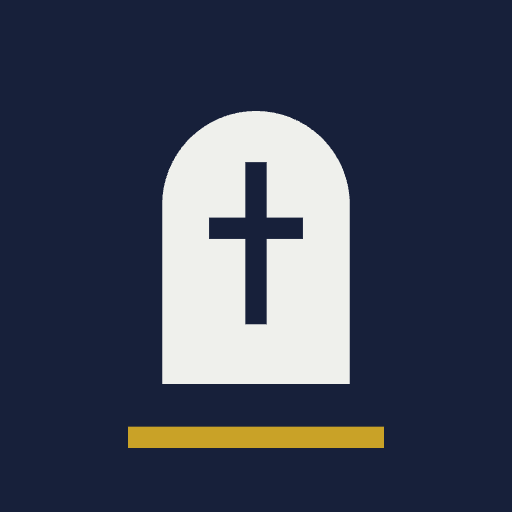
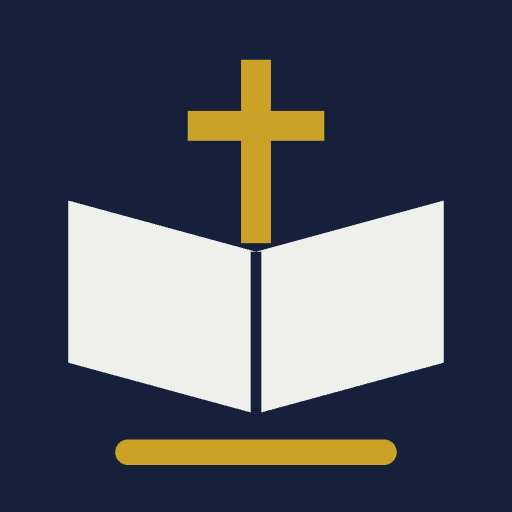
Add files via upload

Changed region(s): [[0.125, 0.0938, 0.875, 0.9062]]

diff --git a/index.html b/index.html
@@ -32,9 +32,7 @@
   .wrap{max-width:1200px;margin:0 auto;background:#fff;min-height:100vh;min-height:100dvh;display:flex;flex-direction:column}
   /* masthead */
   .mast{background:var(--ink);border-bottom:2px solid var(--gold);padding:12px 16px;padding-top:calc(12px + env(safe-area-inset-top));padding-left:calc(16px + env(safe-area-inset-left));padding-right:calc(16px + env(safe-area-inset-right));display:flex;align-items:center;gap:11px}
-  .logo{width:26px;height:32px;background:var(--paper);border-radius:13px 13px 2px 2px;position:relative;display:flex;align-items:center;justify-content:center;flex:none}
-  .logo i{width:3px;height:15px;background:var(--ink);display:block}
-  .logo b{width:11px;height:3px;background:var(--ink);position:absolute;top:11px}
+  .logo{width:32px;height:32px;flex:none;display:block}
   .brand{font-family:'Alice',serif;color:#fff;font-size:20px;line-height:1.1;letter-spacing:.01em}
   .lang{margin-left:auto;display:flex;border:1px solid #3a4463;border-radius:999px;overflow:hidden}
   .lang button{padding:5px 11px;font-size:12px;font-weight:600;border:0;background:transparent;color:#9aa3bd;letter-spacing:.04em;transition:background .16s ease,color .16s ease}
@@ -93,14 +91,14 @@
   .caret svg{transition:transform .16s ease}
   .caret.up svg{transform:rotate(180deg)}
   .li.on .caret{color:var(--blue)}
-  .drawer{background:#fbfbf9;border-bottom:1px solid var(--rule);padding:4px 16px 12px}
-  .drawer .dh{display:flex;align-items:baseline;gap:8px;padding:10px 0 6px;font-size:12px;
+  .subrow{background:#fbfbf9;border-bottom:1px solid var(--rule);padding:4px 16px 12px}
+  .subrow .dh{display:flex;align-items:baseline;gap:8px;padding:10px 0 6px;font-size:12px;
     letter-spacing:.08em;text-transform:uppercase;color:var(--muted)}
-  .drawer .dh span{text-transform:none;letter-spacing:0;color:var(--faint)}
-  .drawer .dr{display:flex;align-items:baseline;gap:12px;padding:5px 0;border-top:1px solid #e9eae4}
-  .drawer .dd{width:44%;flex:none;font-size:14px;font-variant-numeric:tabular-nums}
-  .drawer .dk{flex:1;min-width:0;font-size:13px;color:var(--muted)}
-  .drawer .dk.cx{color:var(--red)}
+  .subrow .dh span{text-transform:none;letter-spacing:0;color:var(--faint)}
+  .subrow .dr{display:flex;align-items:baseline;gap:12px;padding:5px 0;border-top:1px solid #e9eae4}
+  .subrow .dd{width:44%;flex:none;font-size:14px;font-variant-numeric:tabular-nums}
+  .subrow .dk{flex:1;min-width:0;font-size:13px;color:var(--muted)}
+  .subrow .dk.cx{color:var(--red)}
   .ver{padding:4px 16px 24px;text-align:center;font-size:12px;color:var(--faint);
     font-variant-numeric:tabular-nums;letter-spacing:.04em}
   .ver a{color:var(--faint);text-decoration:underline;text-underline-offset:2px}
@@ -140,8 +138,8 @@
   .who i{font-style:normal;font-weight:700;font-size:9px;line-height:1;padding:2px 4px;border-radius:3px;
     background:var(--paper);border:1px solid var(--rule);color:var(--faint)}
   .s .st{vertical-align:middle}
-  .drawer .dc{flex:none;text-align:right}
-  .drawer .dc .who{margin-left:6px}
+  .subrow .dc{flex:none;text-align:right}
+  .subrow .dc .who{margin-left:6px}
   .dpick{position:relative;flex:1;min-width:0;display:block}
   .dpick span{display:block;border:1px solid var(--rule);border-radius:8px;background:#fbfbf9;
     padding:10px 11px;font-size:15px;line-height:1.2;color:var(--ink);text-align:center;
@@ -427,13 +425,26 @@
   .svc-card .date{font-family:'Alice',serif;font-size:17px}
   .svc-card .kind{font-size:12px;color:var(--blue);border:1px solid #c6cde6;background:#f2f4fb;border-radius:999px;padding:3px 9px}
   .svc-card .s{font-size:15px;color:#3c4438;padding-left:14px;border-left:2px solid var(--rule)}
-  .login{padding:32px 24px 28px;display:flex;flex-direction:column;gap:16px;max-width:400px;margin:40px auto;
-    width:calc(100% - 32px);background:#fff;border:1px solid var(--rule);border-radius:18px;
-    box-shadow:0 18px 44px -20px rgba(23,32,58,.30)}
-  .login .lt{font-family:'Alice',serif;font-size:25px;text-align:center}
-  .login .lt::after{content:'';display:block;width:34px;height:2px;background:var(--gold);margin:12px auto 0}
-  .login label{font-family:'Alice',serif;font-size:14px;color:#3c4438;letter-spacing:.06em}
-  .login input{width:100%;background:#fff;border:1px solid var(--rule);border-radius:8px;padding:14px 13px;font-size:16px}
+  .loginwrap{display:flex;justify-content:center;padding:6vh 16px 40px}
+  .login{position:relative;padding:30px 26px 28px;display:flex;flex-direction:column;gap:18px;
+    width:min(410px,100%);border-radius:22px;
+    background:rgba(255,255,255,.82);backdrop-filter:blur(22px) saturate(1.5);-webkit-backdrop-filter:blur(22px) saturate(1.5);
+    border:1px solid rgba(255,255,255,.9);box-shadow:0 30px 70px -34px rgba(23,32,58,.5),0 2px 0 rgba(255,255,255,.7) inset;
+    animation:loginin .4s cubic-bezier(.2,.8,.3,1)}
+  @keyframes loginin{from{opacity:0;transform:translateY(14px) scale(.985)}}
+  .login .lhead{display:flex;flex-direction:column;align-items:center;gap:12px;text-align:center}
+  .login .lmark{display:flex;align-items:center;justify-content:center}
+  .login .lmark .logo{filter:none;width:56px;height:56px}
+  .login .lt{font-family:'Alice',serif;font-size:24px;line-height:1.15}
+  .login label{display:block;margin-bottom:7px;font-size:12.5px;font-weight:600;letter-spacing:.07em;
+    text-transform:uppercase;color:var(--muted)}
+  .login input{width:100%;background:rgba(247,248,251,.9);border:1px solid var(--rule);border-radius:12px;
+    padding:14px 14px;font-size:16px;transition:border-color .15s ease,box-shadow .15s ease,background .15s ease}
+  .login input:focus{outline:0;background:#fff;border-color:var(--blue);box-shadow:0 0 0 4px rgba(44,62,143,.13)}
+  .login .btn{background:linear-gradient(165deg,#3b4f9e,#2c3e8f);border-radius:13px;font-size:16px;
+    box-shadow:0 12px 26px -12px rgba(44,62,143,.75)}
+  .login .btn:hover{background:linear-gradient(165deg,#44599f,#334694)}
+  .login .err{border-radius:12px}
   .toast.ok{background:rgba(63,125,78,.92)}
   .toast{position:fixed;left:12px;right:12px;bottom:calc(12px + env(safe-area-inset-bottom));z-index:20;
     max-width:520px;margin-inline:auto;border-radius:16px;background:rgba(158,59,46,.92);backdrop-filter:blur(14px);-webkit-backdrop-filter:blur(14px);color:#fff;display:flex;
@@ -484,13 +495,29 @@
   .drawer .it{display:flex;align-items:center;gap:13px;padding:12px;margin:1px 0;border-radius:11px;
     color:#9aa3bd;font-size:15px;font-weight:500;transition:background .15s ease,color .15s ease}
   .drawer .it svg{width:20px;height:20px;flex:none}
+  .drawer .it .ic-note{width:24px;height:24px;margin:-2px}
+  .drawer .it .ic-note *{stroke-width:2.2}
+  .drawer .it .ic-note [stroke]{stroke:currentColor}
+  .drawer .it .ic-note [fill="#fff"]{fill:none}
+  .drawer .it .ic-note [stroke="var(--blue)"],.drawer .it .ic-note [stroke="var(--red)"],
+  .drawer .it .ic-note [stroke="var(--gold)"]{stroke:var(--gold)}
+  .drawer .it .ic-note [fill="var(--blue)"],.drawer .it .ic-note [fill="var(--red)"],
+  .drawer .it .ic-note [fill="var(--gold)"]{fill:var(--gold)}
+  .drawer .it .ic-note [fill="var(--ink)"]{fill:var(--gold)}
+  .drawer .it .ic-note [data-badge]{fill:none !important}
+  .drawer .it .ic-note [data-play]{transform:translate(24.4px,23.6px) scale(1.75) translate(-24.4px,-23.6px)}
+  .drawer .it.on .ic-note [stroke="var(--blue)"],.drawer .it.on .ic-note [stroke="var(--red)"],
+  .drawer .it.on .ic-note [stroke="var(--gold)"]{stroke:var(--ink)}
+  .drawer .it.on .ic-note [fill="var(--blue)"],.drawer .it.on .ic-note [fill="var(--red)"],
+  .drawer .it.on .ic-note [fill="var(--ink)"],.drawer .it.on .ic-note [fill="var(--gold)"]{fill:var(--ink)}
   .drawer .it:hover{background:rgba(255,255,255,.08);color:#fff}
   .drawer .it.on{background:var(--gold);color:var(--ink);font-weight:600;box-shadow:0 4px 18px -4px rgba(201,162,39,.5)}
   .drawer.on .it{animation:itin .28s backwards}
   @keyframes itin{from{opacity:0;transform:translateX(14px)}}
   .drawer.on .it:nth-child(3){animation-delay:.03s}.drawer.on .it:nth-child(4){animation-delay:.06s}
   .drawer.on .it:nth-child(5){animation-delay:.09s}.drawer.on .it:nth-child(6){animation-delay:.12s}
-  .drawer.on .it:nth-child(7){animation-delay:.15s}
+  .drawer.on .it:nth-child(7){animation-delay:.15s}.drawer.on .it:nth-child(8){animation-delay:.18s}
+  .drawer .it{font-size:14.5px;padding:11px 12px}
   .drawer .grow{flex:1;min-height:14px}
   .drawer .dfoot{border-top:1px solid rgba(255,255,255,.12);padding-top:8px}
   .dlang{display:none}
@@ -512,28 +539,28 @@
   /* faint aurora in the brand's own tints */
   .wrap{background-color:#fff;background-image:
     radial-gradient(640px 380px at 8% -120px,rgba(44,62,143,.08),transparent 62%),
-    radial-gradient(560px 360px at 96% 60px,rgba(201,162,39,.08),transparent 60%),
+    radial-gradient(560px 360px at 96% 60px,rgba(70,100,205,.08),transparent 60%),
     radial-gradient(620px 420px at 50% 760px,rgba(44,62,143,.05),transparent 62%)}
   .hero,.tiles{background:transparent}
   /* quiet glow */
   .logo{filter:drop-shadow(0 0 6px rgba(201,162,39,.35))}
-  .tile.order:hover{box-shadow:0 16px 40px -14px rgba(201,162,39,.42)}
+  .tile.order:hover{box-shadow:0 16px 40px -14px rgba(44,62,143,.45)}
   .savebar .sb.go{box-shadow:0 6px 18px -8px rgba(44,62,143,.55)}
   .mini.go{box-shadow:0 5px 14px -7px rgba(44,62,143,.5)}
   /* aurora on the navy surfaces */
   .mast{background-image:
-    radial-gradient(320px 150px at 94% -35%,rgba(201,162,39,.17),transparent 60%),
+    radial-gradient(320px 150px at 94% -35%,rgba(96,132,235,.24),transparent 60%),
     radial-gradient(340px 170px at 2% 135%,rgba(90,115,220,.24),transparent 62%)}
   .tile.dark,.tile.order{background-image:
-    radial-gradient(320px 200px at 92% -12%,rgba(201,162,39,.15),transparent 60%),
+    radial-gradient(320px 200px at 92% -12%,rgba(96,132,235,.22),transparent 60%),
     radial-gradient(300px 220px at -6% 110%,rgba(90,115,220,.20),transparent 62%)}
   .tile.order{background-image:
-    radial-gradient(440px 240px at 97% -30%,rgba(224,181,63,.30),transparent 60%),
+    radial-gradient(440px 240px at 97% -30%,rgba(86,150,245,.30),transparent 60%),
     radial-gradient(280px 190px at 68% 118%,rgba(96,122,230,.34),transparent 62%),
     radial-gradient(380px 270px at -14% 122%,rgba(64,160,255,.26),transparent 62%),
     radial-gradient(260px 190px at 14% -28%,rgba(129,96,226,.22),transparent 62%)}
   .drawer::before{content:'';position:absolute;inset:0;pointer-events:none;background:
-    radial-gradient(260px 220px at 90% 2%,rgba(201,162,39,.13),transparent 62%),
+    radial-gradient(260px 220px at 90% 2%,rgba(96,132,235,.20),transparent 62%),
     radial-gradient(280px 260px at 4% 104%,rgba(90,115,220,.18),transparent 62%)}
   .drawer > *{position:relative}
   /* press feel + focus */
@@ -817,11 +844,15 @@ const qField = () => `<span class="qwrap"><input class="field" id="q" placeholde
 function localISO(d){ return d.getFullYear() + '-' + String(d.getMonth()+1).padStart(2,'0') + '-' + String(d.getDate()).padStart(2,'0'); }
 function today(){ return localISO(new Date()); }
 const EPOCH = '2017-01-01';        // no choir records exist before this
-const VERSION = '3.12.0';
+const VERSION = '3.13.0';
 if (location.search.indexOf('menu') > -1) S.menuOpen = true;
 /* what to say under "Release notes" — one list per major version */
 const NOTES = { '3': {
   en: [
+    'A new choir mark across the site and the home-screen icon',
+    'The menu now lists every page, with the same icons as the dashboard tiles',
+    'A refreshed sign-in screen',
+    'Fixed: rows in Summary and Who led open again',
     'The menu now slides out from the side — tap the button in the top corner',
     'On iPad and desktop the menu stays open as a sidebar, and pages use the full width',
     'Frosted-glass menu and bars, gentler button feedback, soft page transitions',
@@ -852,6 +883,10 @@ const NOTES = { '3': {
     'CSV export follows the selected period'
   ],
   ru: [
+    'Новый знак хора на сайте и на иконке приложения',
+    'В меню теперь все разделы — с теми же значками, что и плитки на главной',
+    'Обновлённый экран входа',
+    'Исправлено: строки в «Сводке» и «Кто вёл» снова раскрываются',
     'Меню теперь выдвигается сбоку — кнопка в правом верхнем углу',
     'На iPad и компьютере меню закреплено сбоку, а страницы используют всю ширину',
     'Полупрозрачное меню и панели, мягкие переходы между страницами',
@@ -1257,7 +1292,7 @@ async function saveRules(){
 function mast(){
   return `<div class="mast">
     <a href="#/home" class="mbrand" style="display:flex;align-items:center;gap:11px;color:inherit;min-width:0">
-      <div class="logo"><i></i><b></b></div>
+      <svg class="logo" viewBox="0 0 120 120" aria-hidden="true"><rect x="56.5" y="10" width="7" height="45" fill="#c9a227"></rect><rect x="44" y="23" width="32" height="7" fill="#c9a227"></rect><path d="M16 45 L60 57 L60 97 L16 85 Z" fill="#eff0ec"></path><path d="M104 45 L60 57 L60 97 L104 85 Z" fill="#eff0ec"></path><path d="M60 57 L60 97" stroke="#17203a" stroke-width="2.5"></path><rect x="27" y="103" width="66" height="6" rx="3" fill="#c9a227"></rect></svg>
       <div class="brand">BSEBC Choir</div>
     </a>
     <div class="lang">
@@ -1282,12 +1317,12 @@ const NAVIC = {
 };
 function drawerNav(){
   const r = S.route || '#/home';
-  const on = p => r.startsWith(p) ? ' on' : '';
-  const it = (href, key, ic, label) => `<a class="it${on(key)}" href="${href}">${NAVIC[ic]}<span>${esc(label)}</span></a>`;
+  const it = (href, on, ic, label) => `<a class="it${on?' on':''}" href="${href}">${ic}<span>${esc(label)}</span></a>`;
+  const piano = r.startsWith('#/sheets/piano');
   return `<div class="scrim${S.menuOpen?' on':''}" data-menu-x></div>
   <nav class="drawer${S.menuOpen?' on':''}" aria-label="Menu">
     <div class="dhead">
-      <div class="logo"><i></i><b></b></div>
+      <svg class="logo" viewBox="0 0 120 120" aria-hidden="true"><rect x="56.5" y="10" width="7" height="45" fill="#c9a227"></rect><rect x="44" y="23" width="32" height="7" fill="#c9a227"></rect><path d="M16 45 L60 57 L60 97 L16 85 Z" fill="#eff0ec"></path><path d="M104 45 L60 57 L60 97 L104 85 Z" fill="#eff0ec"></path><path d="M60 57 L60 97" stroke="#17203a" stroke-width="2.5"></path><rect x="27" y="103" width="66" height="6" rx="3" fill="#c9a227"></rect></svg>
       <div class="t">BSEBC Choir</div>
       <div class="lang dlang">
         <button data-lang="en" class="${S.lang==='en'?'on':''}">EN</button>
@@ -1297,29 +1332,29 @@ function drawerNav(){
         <svg width="18" height="18" viewBox="0 0 24 24" fill="none" stroke="currentColor" stroke-width="2" stroke-linecap="round"><path d="m6 6 12 12M18 6 6 18"></path></svg>
       </button>
     </div>
-    ${it('#/home','#/home','home',t('home'))}
-    ${it('#/attendance','#/attendance','att',t('attendance'))}
-    ${it('#/songs','#/songs','hist',t('songs'))}
-    ${it('#/sheets','#/sheets','sheets',t('navSheets'))}
-    ${it('#/seating','#/seating','seat',t('tSeating'))}
-    ${it('#/rules','#/rules','rules',t('tRules'))}
+    ${it('#/home', r.startsWith('#/home'), NAVIC.home, t('home'))}
+    ${it('#/sheets', r.startsWith('#/sheets') && !piano, ICON.sheets, t('tSheets'))}
+    ${it('#/attendance/grid', r.startsWith('#/attendance'), ICON.attGrid, t('tAttGrid'))}
+    ${it('#/songs/summary', r.startsWith('#/songs'), ICON.songGrid, t('tSongGrid'))}
+    ${it('#/sheets/piano', piano, ICON.piano, t('tPiano'))}
+    ${it('#/seating', r.startsWith('#/seating'), ICON.seat, t('tSeating'))}
+    ${it('#/rules', r.startsWith('#/rules'), ICON.rules, t('tRules'))}
     <div class="grow"></div>
     <div class="dfoot">
-      ${S.session ? it('#/admin/attendance','#/admin','admin',t('admin')) : ''}
+      ${S.session ? it('#/admin/attendance', r.startsWith('#/admin'), NAVIC.admin, t('admin')) : ''}
       ${S.session
         ? `<a class="it" href="#/home" data-signout>${NAVIC.out}<span>${esc(t('signout'))}</span></a>`
-        : it('#/login','#/login','login',t('signin'))}
+        : it('#/login', r.startsWith('#/login'), NAVIC.login, t('signin'))}
       <div class="vv">v${VERSION}</div>
     </div>
   </nav>`;
 }
-function homePage(){
-  const ICON = {
+const ICON = {
     attGrid: `<svg class="ic-note" viewBox="0 0 34 34" aria-hidden="true">
         <rect x="3" y="6" width="28" height="25" rx="3.5" fill="none" stroke="#c9cdc4" stroke-width="1.8"></rect>
         <g stroke="#c9cdc4" stroke-width="1.8" stroke-linecap="round"><path d="M3 13.5h28"></path><path d="M10 3.5v5"></path><path d="M24 3.5v5"></path></g>
-        <path d="M9.5 21.6 12 24l4.4-5.2" fill="none" stroke="var(--blue)" stroke-width="2.2" stroke-linecap="round" stroke-linejoin="round"></path>
-        <path d="M21.5 19.5l5 5m0-5-5 5" fill="none" stroke="var(--red)" stroke-width="2.2" stroke-linecap="round"></path></svg>`,
+        <path d="M8.4 21.9 10.9 24.4l4.4-5.2" fill="none" stroke="var(--blue)" stroke-width="2.2" stroke-linecap="round" stroke-linejoin="round"></path>
+        <path d="M20.2 19.6l4.8 4.8m0-4.8-4.8 4.8" fill="none" stroke="var(--red)" stroke-width="2.2" stroke-linecap="round"></path></svg>`,
     seat: `<svg class="ic-note" viewBox="0 0 34 34" aria-hidden="true">
         <g fill="none" stroke="#c9cdc4" stroke-width="1.7">
           <rect x="3.5" y="7" width="8" height="7" rx="2.2"></rect><rect x="13" y="7" width="8" height="7" rx="2.2"></rect><rect x="22.5" y="7" width="8" height="7" rx="2.2"></rect>
@@ -1340,9 +1375,11 @@ function homePage(){
           <path d="M4 25h9" stroke="#c9cdc4"></path></g></svg>`,
     songGrid:`<svg class="ic-note" viewBox="0 0 34 34" aria-hidden="true">
         <path d="M17 4.5a12.5 12.5 0 1 1-9.6 4.5" fill="none" stroke="#c9cdc4" stroke-width="2.1" stroke-linecap="round"></path>
-        <ellipse cx="14.4" cy="22.2" rx="4.1" ry="3.2" transform="rotate(-20 14.4 22.2)" fill="var(--blue)"></ellipse>
-        <path d="M18.1 20.8V11" stroke="var(--blue)" stroke-width="2.3" stroke-linecap="round"></path>
-        <path d="M18.1 11c3 .7 4.7 1.9 5.2 3.9" stroke="var(--gold)" stroke-width="2.3" stroke-linecap="round" fill="none"></path>
+        <g transform="translate(0.4 -1.3)">
+          <ellipse cx="14.4" cy="22.2" rx="4.1" ry="3.2" transform="rotate(-20 14.4 22.2)" fill="var(--blue)"></ellipse>
+          <path d="M18.1 20.8V11" stroke="var(--blue)" stroke-width="2.3" stroke-linecap="round"></path>
+          <path d="M18.1 11c3 .7 4.7 1.9 5.2 3.9" stroke="var(--gold)" stroke-width="2.3" stroke-linecap="round" fill="none"></path>
+        </g>
       </svg>`,
     songSvc: `<svg class="ic-note" viewBox="0 0 34 34" aria-hidden="true">
         <g fill="var(--gold)"><circle cx="5" cy="9" r="2.2"></circle><circle cx="5" cy="17" r="2.2"></circle><circle cx="5" cy="25" r="2.2"></circle></g>
@@ -1356,8 +1393,8 @@ function homePage(){
         <g stroke="#c9cdc4" stroke-width="1.3" stroke-linecap="round"><path d="M8.5 10h12"></path><path d="M8.5 14h12"></path><path d="M8.5 18h7"></path></g>
         <ellipse cx="12.6" cy="23.4" rx="3.4" ry="2.7" transform="rotate(-20 12.6 23.4)" fill="var(--blue)"></ellipse>
         <path d="M15.7 22.2v-7.7" stroke="var(--blue)" stroke-width="2" stroke-linecap="round"></path>
-        <circle cx="25.8" cy="24.6" r="6.6" fill="var(--gold)"></circle>
-        <path d="M23.8 21.7v5.8l4.7-2.9z" fill="var(--ink)"></path>
+        <circle cx="25.8" cy="24.6" r="6.6" fill="var(--gold)" data-badge="1"></circle>
+        <path d="M23.8 21.7v5.8l4.7-2.9z" fill="var(--ink)" data-play="1"></path>
       </svg>`,
     piano:   `<svg class="ic-note" viewBox="0 0 34 34" aria-hidden="true">
         <rect x="3" y="9" width="28" height="17" rx="2" fill="#fff" stroke="#c9cdc4" stroke-width="1.6"></rect>
@@ -1369,7 +1406,8 @@ function homePage(){
     user:    `<svg class="ic-note" viewBox="0 0 34 34" aria-hidden="true">
         <circle cx="17" cy="12" r="5.6" fill="none" stroke="var(--gold)" stroke-width="2.2"></circle>
         <path d="M6.5 29.5c1.6-6 5.6-9 10.5-9s8.9 3 10.5 9" fill="none" stroke="var(--gold)" stroke-width="2.2" stroke-linecap="round"></path></svg>`
-  };
+};
+function homePage(){
   const tile = (href, title, sub, icon, dark) => `<a class="tile ${dark?'dark':''}" href="${href}">
       <div class="ic">${icon}</div>
       <div><div class="tt">${esc(t(title))}</div><div class="ts">${esc(t(sub))}</div></div></a>`;
@@ -1606,7 +1644,7 @@ function songsPeople(){
         <div style="width:54px;text-align:right;font-weight:600;font-variant-numeric:tabular-nums">${total}</div>
         <div style="width:84px;text-align:right;font-size:13px;color:var(--muted)">${esc(fmtShort(r.last))}</div>
         <div class="caret ${open?'up':''}">${CHEVSVG}</div></div>` +
-      (open ? `<div class="drawer">
+      (open ? `<div class="subrow">
         <div class="dh">${esc(t('theirSongs'))} <span>${esc(t('inRangeN')(songs.length))}</span></div>
         ${songs.map(x => `<div class="dr" data-goto-song="${x.s.id}">
           <div class="dd" style="width:auto;flex:1">${esc(x.s.title)}</div>
@@ -1634,7 +1672,7 @@ function songsSummary(){
       <div style="width:54px;text-align:right;font-weight:600;font-variant-numeric:tabular-nums">${st.n}</div>
       <div style="width:84px;text-align:right;font-size:13px;color:var(--muted)">${esc(st.last || '—')}</div>
       <div class="caret ${open?'up':''}">${CHEVSVG}</div></div>` +
-      (open ? `<div class="drawer">
+      (open ? `<div class="subrow">
         <div class="dh">${esc(t('songDates'))} <span>${esc(t('inRangeN')(dates.length))}</span></div>
         ${dates.map(e => `<div class="dr">
           <div class="dd">${esc(fmtLong(e.date))}</div>
@@ -2043,8 +2081,9 @@ function manageMembers(){
                  : `<div class="msg">${esc(t('noEntries'))}</div>`) + `</div>`;
 }
 function loginPage(){
-  return `<div class="login">
-    <div class="lt">${esc(t('signin'))}</div>
+  return `<div class="loginwrap"><div class="login">
+    <div class="lhead"><div class="lmark"><svg class="logo" viewBox="0 0 120 120" aria-hidden="true"><rect x="56.5" y="10" width="7" height="45" fill="#c9a227"></rect><rect x="44" y="23" width="32" height="7" fill="#c9a227"></rect><path d="M16 45 L60 57 L60 97 L16 85 Z" fill="#eff0ec"></path><path d="M104 45 L60 57 L60 97 L104 85 Z" fill="#eff0ec"></path><path d="M60 57 L60 97" stroke="#17203a" stroke-width="2.5"></path><rect x="27" y="103" width="66" height="6" rx="3" fill="#c9a227"></rect></svg></div>
+      <div class="lt">${esc(t('signin'))}</div></div>
     ${S.error ? `<div class="err">${esc(S.error)}</div>` : ''}
     <form id="loginform" method="post" action="#/login" autocomplete="on" style="display:grid;gap:14px">
       <div><label for="em">${esc(t('email'))}</label>
@@ -2054,7 +2093,7 @@ function loginPage(){
         <input id="pw" name="password" type="password" autocomplete="current-password" required></div>
       <button class="btn" type="submit" data-login>${esc(t('signin'))}</button>
     </form>
-  </div>`;
+  </div></div>`;
 }
 
 /* Sheet music and piano sheets are the same page over two different files:
@@ -2224,7 +2263,7 @@ function render(){
      replaced, and this app re-renders whole screens. So once the sign-in form is
      on screen, leave those exact nodes alone unless something visible changed. */
   if (onLogin && document.getElementById('loginform')) {
-    const sig = S.lang + '|' + (S.error || '') + '|' + (S.session ? '1' : '0');
+    const sig = S.lang + '|' + (S.error || '') + '|' + (S.session ? '1' : '0') + '|' + (S.menuOpen ? '1' : '0');
     if (sig === S.loginSig) return;
     S.loginSig = sig;
   }
@@ -2254,7 +2293,7 @@ function render(){
       : 'members');
   }
   else if (onLogin) {
-    S.loginSig = S.lang + '|' + (S.error || '') + '|' + (S.session ? '1' : '0');
+    S.loginSig = S.lang + '|' + (S.error || '') + '|' + (S.session ? '1' : '0') + '|' + (S.menuOpen ? '1' : '0');
     html += publicNav('') + loginPage();
   }
   else if (r.startsWith('#/sheets/piano') || r.startsWith('#/piano')) { html += publicNav('piano') + sheetsPage('piano'); }
